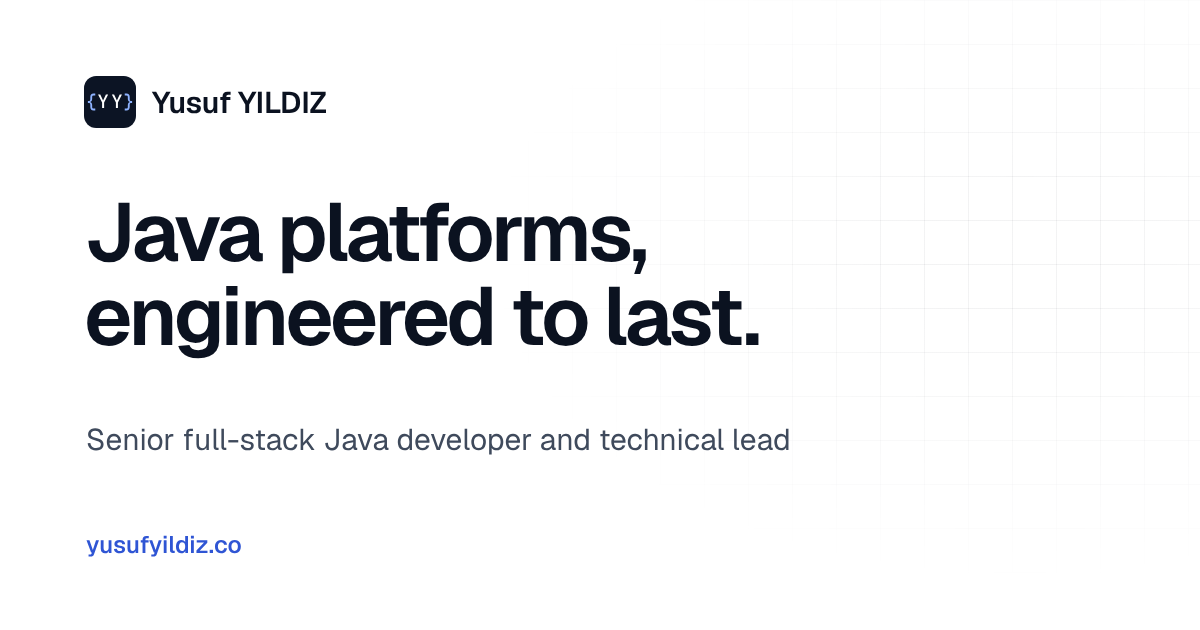
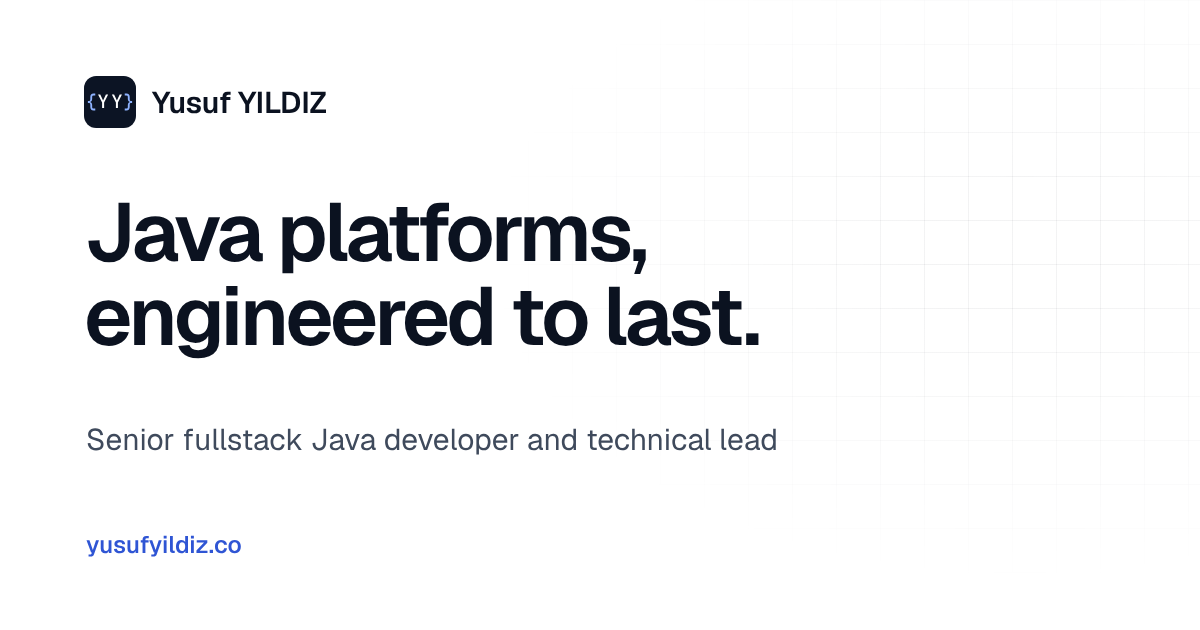
Fix narrow-screen hero, sitemap lastmod, llms.txt links, manifest color, mail subject, Fullstack spelling

Changed region(s): [[0.185, 0.6635, 0.6783, 0.7238]]

diff --git a/src/pages/llms.txt.ts b/src/pages/llms.txt.ts
@@ -1,7 +1,8 @@
 import type { APIRoute } from 'astro';
 import { profile, services, reasons, industries, faqs } from '../data/profile';
 
-// A plain-text summary for AI assistants and answer engines (https://llmstxt.org).
+// A Markdown summary for AI assistants and answer engines, following the llms.txt
+// proposal (https://llmstxt.org): an H1, a blockquote summary, and link lists.
 // Generated from the same data as the page, so it never drifts.
 export const GET: APIRoute = () => {
   const lines = [
@@ -24,7 +25,7 @@ export const GET: APIRoute = () => {
     '',
     '## Services',
     '',
-    ...services.map((s) => `- **${s.title}**: ${s.text} Technologies: ${s.tools.join(', ')}.`),
+    ...services.map((s) => `- [${s.title}](${profile.url}#services): ${s.text} Technologies: ${s.tools.join(', ')}.`),
     '',
     '## Why teams work with him',
     '',
@@ -35,10 +36,10 @@ export const GET: APIRoute = () => {
     ...faqs.flatMap((f) => [`### ${f.q}`, '', f.a, '']),
     '## Contact',
     '',
-    `- Email: ${profile.email}`,
-    `- LinkedIn: ${profile.linkedin}`,
-    `- GitHub: ${profile.github}`,
-    `- Website: ${profile.url}`,
+    `- [Email](mailto:${profile.email}): ${profile.email}, the quickest way to reach him`,
+    `- [LinkedIn](${profile.linkedin}): professional profile`,
+    `- [GitHub](${profile.github}): code and open-source contributions`,
+    `- [Website](${profile.url}): services, background and FAQ`,
     '',
   ];
   return new Response(lines.join('\n'), { headers: { 'Content-Type': 'text/plain; charset=utf-8' } });

diff --git a/src/data/profile.ts b/src/data/profile.ts
@@ -5,7 +5,7 @@ export const profile = {
   role: 'Senior Fullstack Java Developer',
   headline: 'Java platforms, engineered to last.',
   intro:
-    "I'm Yusuf YILDIZ, a senior full-stack Java developer and technical lead. I help teams design, build and scale backend systems, web and mobile products, and the cloud infrastructure that runs them.",
+    "I'm Yusuf YILDIZ, a senior fullstack Java developer and technical lead. I help teams design, build and scale backend systems, web and mobile products, and the cloud infrastructure that runs them.",
   availability: 'Available for remote projects',
   highlights: ['15+ years in production Java', 'Remote, UTC+3', 'English and Turkish'],
   location: 'Istanbul, Türkiye',
@@ -16,6 +16,8 @@ export const profile = {
   github: 'https://github.com/yusufyildiz34',
   githubHandle: 'yusufyildiz34',
   url: 'https://yusufyildiz.co/',
+  // Update when the page content changes; used as the sitemap's <lastmod>.
+  lastUpdated: '2026-10-26',
   gaMeasurementId: 'G-1J0P085LKC',
   seoTitle: 'Yusuf YILDIZ | Senior Fullstack Java Developer & Technical Lead',
   description:
@@ -70,7 +72,7 @@ export const services: {
   },
   {
     icon: 'devices',
-    title: 'Full-stack products',
+    title: 'Fullstack products',
     text: 'Web and mobile products built end to end, from the database to the screen your users touch.',
     tools: ['React', 'React Native', 'TypeScript', 'Spring Boot'],
   },

diff --git a/src/pages/sitemap.xml.ts b/src/pages/sitemap.xml.ts
@@ -1,15 +1,15 @@
 import type { APIRoute } from 'astro';
+import { profile } from '../data/profile';
 
-// One-page site: the sitemap lists the homepage with the build date as lastmod.
+// One-page site. <lastmod> is the content date from profile.ts, not the build date,
+// because Google only uses lastmod when it reflects real changes. Google ignores
+// <changefreq> and <priority>, so they are omitted.
 export const GET: APIRoute = ({ site }) => {
-  const lastmod = new Date().toISOString().slice(0, 10);
   const body = `<?xml version="1.0" encoding="UTF-8"?>
 <urlset xmlns="http://www.sitemaps.org/schemas/sitemap/0.9">
   <url>
     <loc>${new URL('/', site)}</loc>
-    <lastmod>${lastmod}</lastmod>
-    <changefreq>monthly</changefreq>
-    <priority>1.0</priority>
+    <lastmod>${profile.lastUpdated}</lastmod>
   </url>
 </urlset>
 `;
